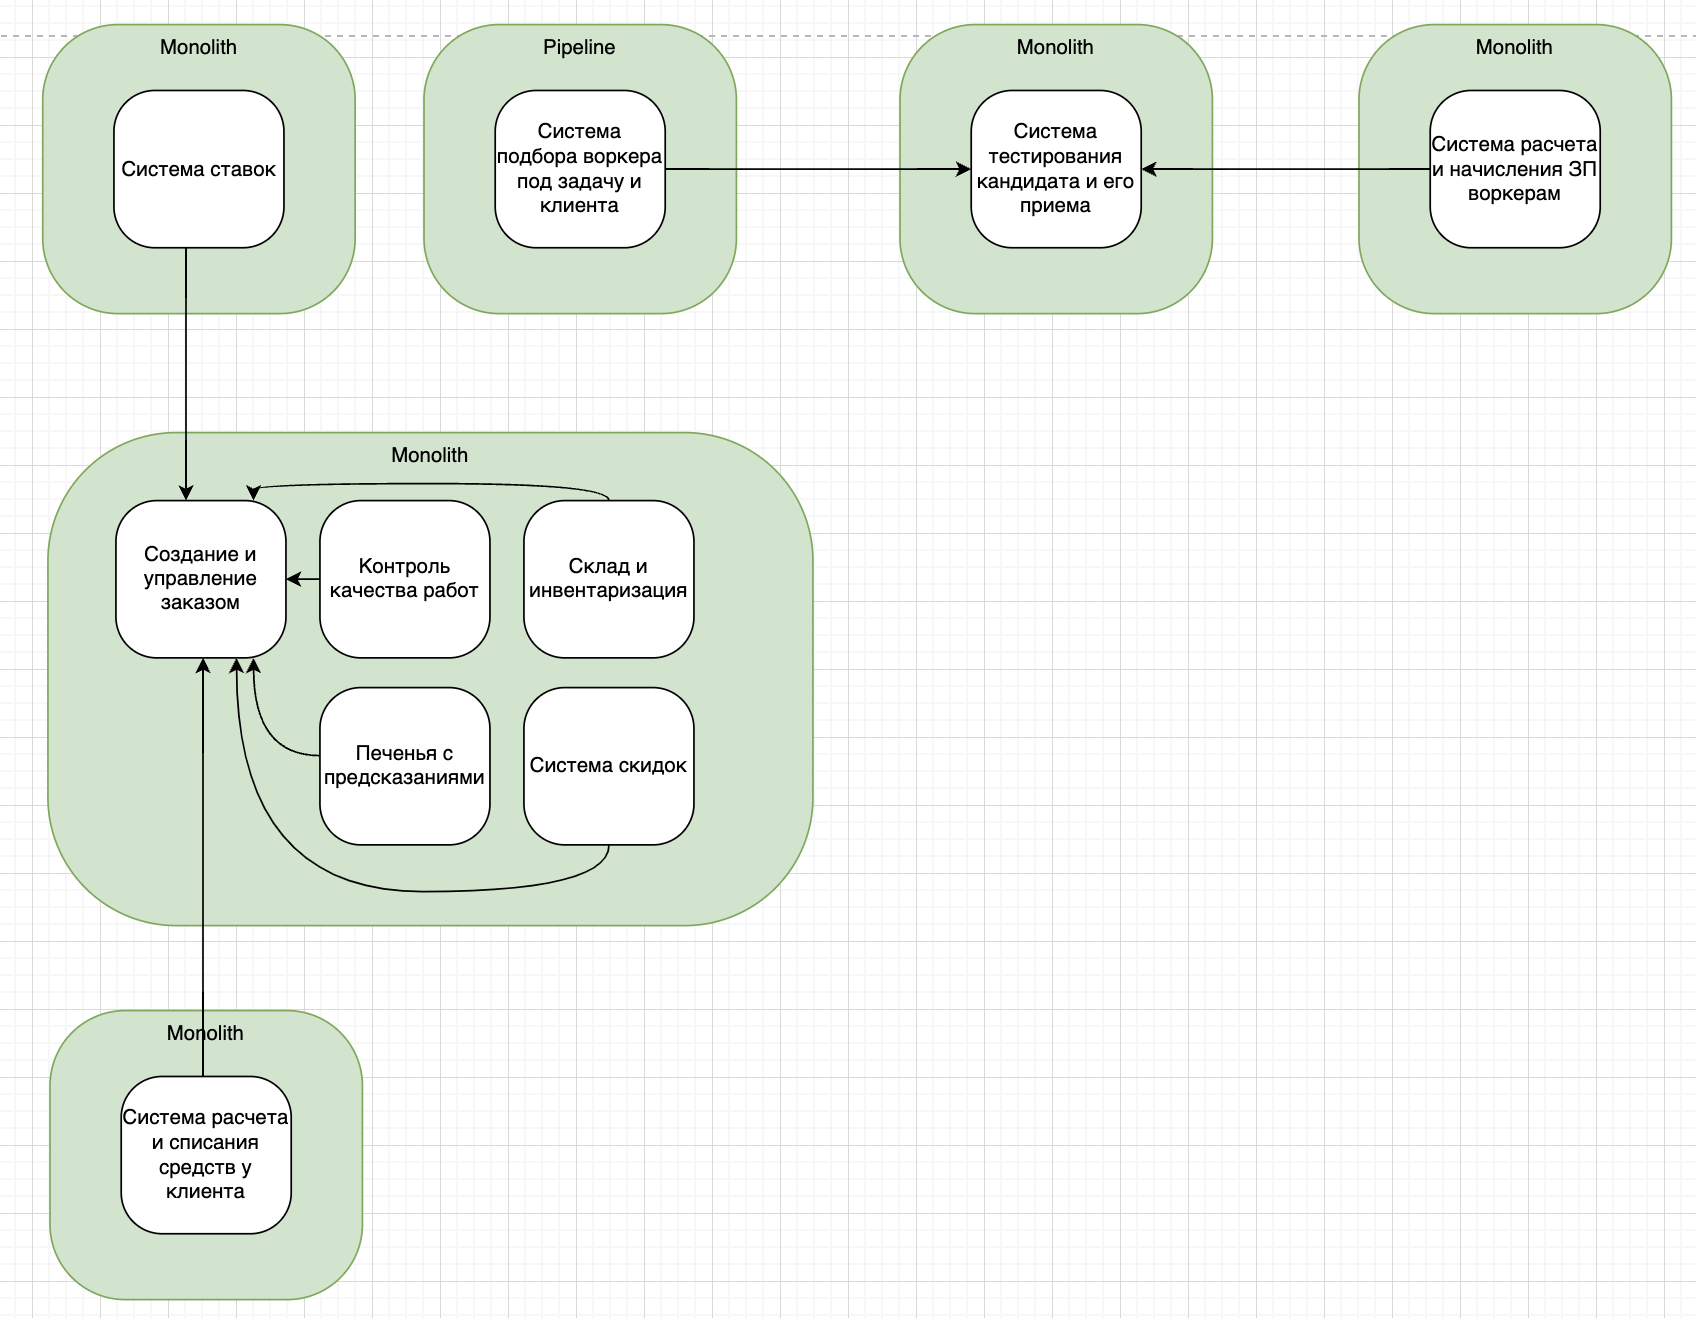
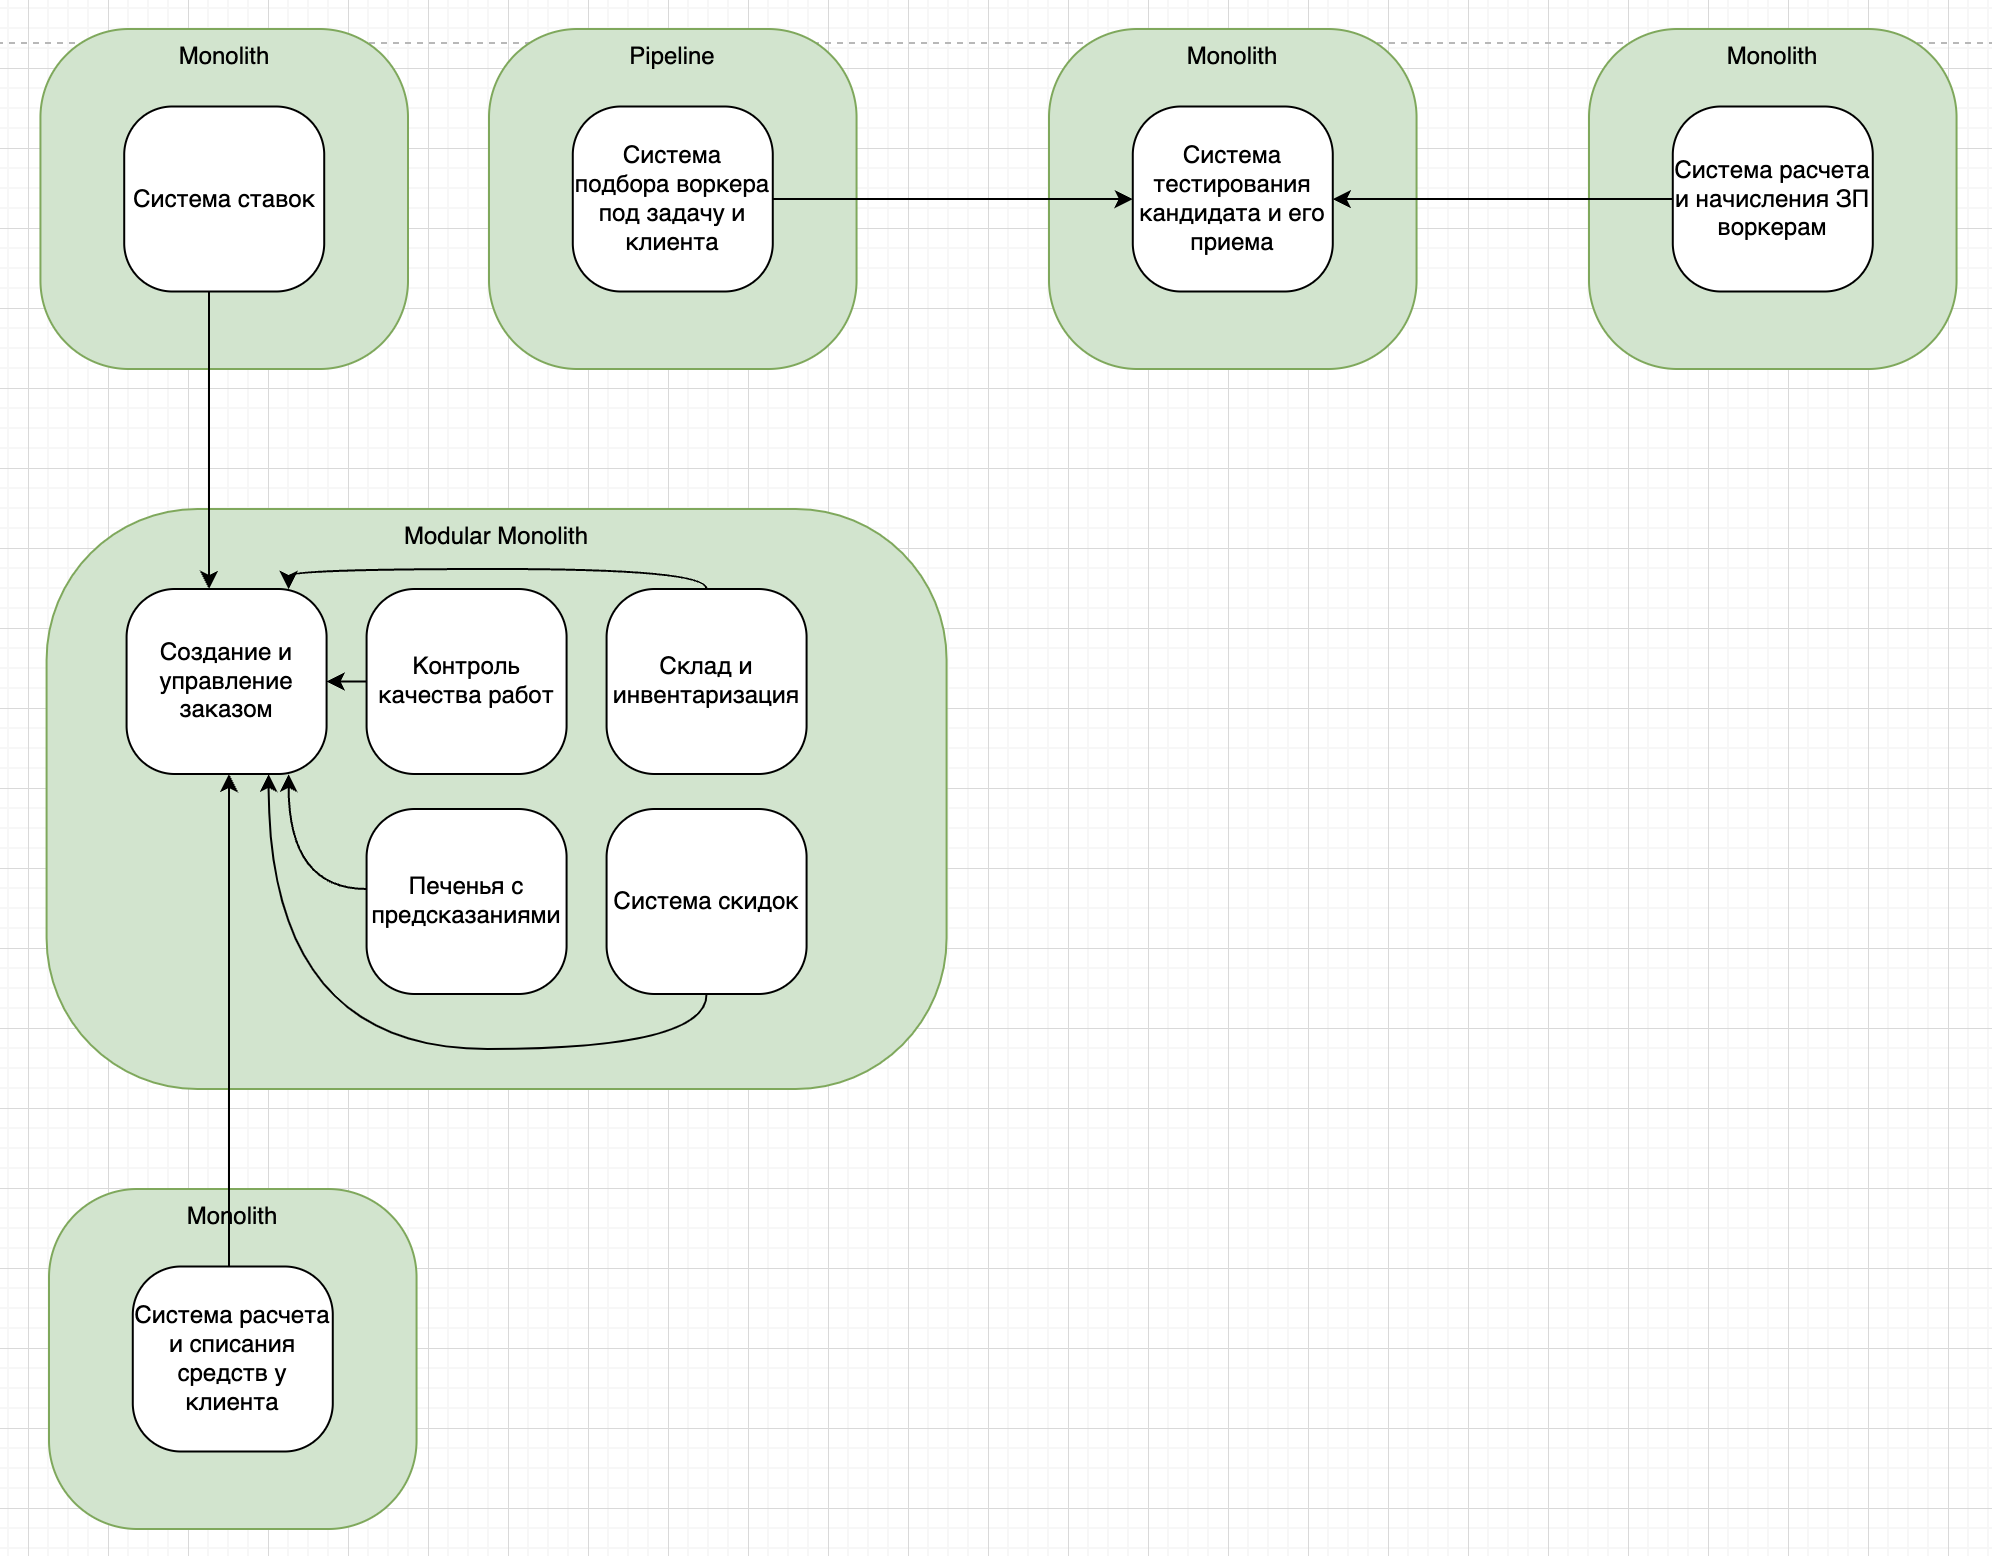
добавил описание фитнес-функций и поправил картинку

diff --git a/3hw/README.md b/3hw/README.md
@@ -166,7 +166,23 @@ agility, testability, deployability – общие требования бизн
 
 # Фитнес-функции
 
-TODO
+## Для всей системы 
+
+- проверка покрытия тестами не ниже 90%;
+- проверка периодичности релиза не реже раза в месяц
+- првоерка событий в системе 
+- нагрузочное тестирование для проверки того, что система выдерживаем 10 заказов в минуту
+
+
+## Для сервиса тестирования кандидата
+- проверка периодичности релизов не реже раза в неделю
+
+## Для сервиса подбора воркера (матчинг)
+- проверка архитектурного стиля
+
+## Для основного монолита Main App
+- проверка соблюдения модульности
+- проверка coupling и cohesion между модулями
 
 # ADR
 
